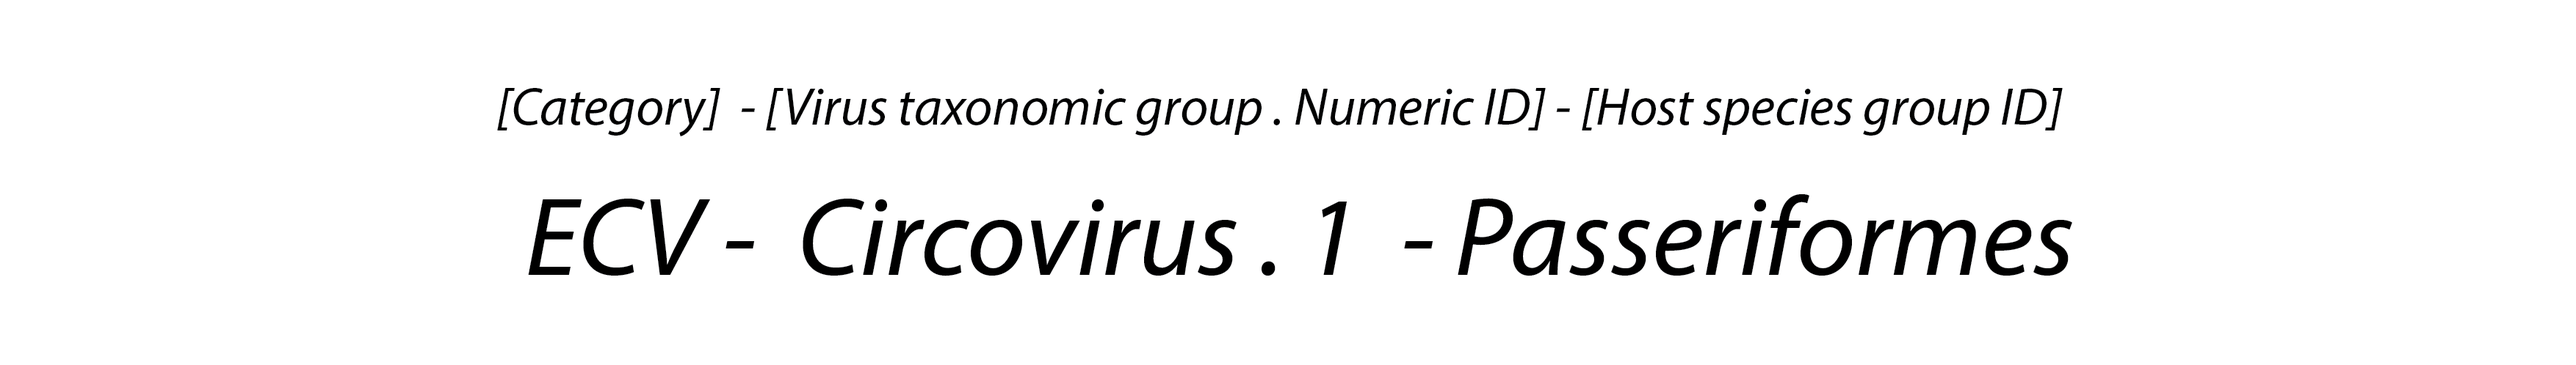
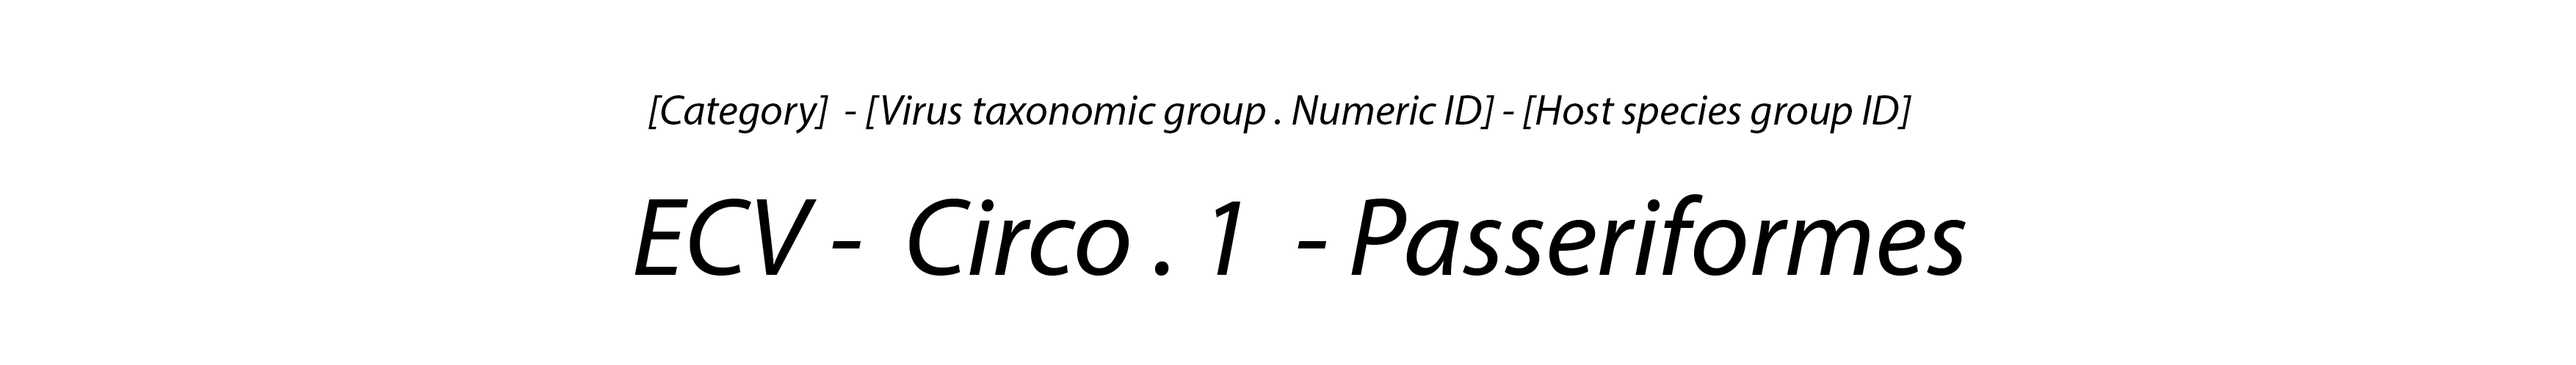
Updated nomenclature section

Changed region(s): [[0.1864, 0.5422, 0.8079, 0.753], [0.1864, 0.241, 0.8079, 0.3614]]

diff --git a/website/paleovirology.html b/website/paleovirology.html
@@ -379,7 +379,7 @@
 		   These data were obtained via
 		   <a target="_blank" href="https://giffordlabcvr.github.io/DIGS-tool/">DIGS</a>
 		   performed in vertebrate genome assemblies downloaded from 
-		   <a href="https://www.ncbi.nlm.nih.gov/genome/browse ">NCBI genomes</a>
+		   <a target="_blank" href="https://www.ncbi.nlm.nih.gov/genome/browse ">NCBI genomes</a>
 		   (2020-07-15).
 		 </p>
 
@@ -426,8 +426,8 @@
          <hr>
 
 		<p>
-          We have applied a systematic approach to naming ECV, following a convention 
-          developed for <a target="_blank" href="https://retrovirology.biomedcentral.com/articles/10.1186/s12977-018-0442-1">endogenous retroviruses</a>.
+          We have applied a <u>systematic approach to naming ECV</u>, following a convention 
+          developed for <a target="_blank" href="https://retrovirology.biomedcentral.com/articles/10.1186/s12977-018-0442-1"><b>endogenous retroviruses (ERVs)</b></a>.
 		  Each element was assigned a unique identifier (ID) constructed from a defined
 		  set of components.
   		</p>
@@ -440,11 +440,11 @@
   		
 
 		<p>
-          The first component is the classifier ‘ECV’ (endogenous CRESS virus element). 
+          The <b>first component</b> is the classifier ‘ECV’ (endogenous CRESS virus element). 
 		</p>
 
 		<p>
-          The second component is a composite of two distinct subcomponents separated by a period:
+          The <b>second component</b> is a composite of two distinct subcomponents separated by a period:
           
           (i)  the name of ECV group;
           (ii) a numeric ID that uniquely identifies the insertion.
@@ -457,7 +457,7 @@
 		</p>
 		
 		<p>
-          The third component of the ID defines the set of host species in which the ortholog occurs.
+          The <b>third component</b> of the ID defines the set of host species in which the ortholog occurs.
  		</p>
 
          

diff --git a/index.html b/index.html
@@ -194,8 +194,7 @@
 		 </p>
 
 	   
-          <br>
-	   
+       <br>
 	   <h3>
 	   <a id="WhyGlueProject" class="anchor" href="#glueProject" aria-hidden="true"><span aria-hidden="true" class="octicon octicon-link"></span></a><strong>What does building the CRESS-GLUE project offer?</strong>
 	   </h3>
